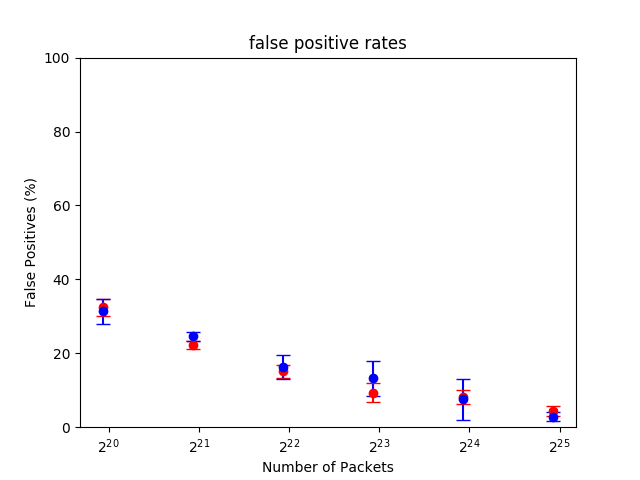
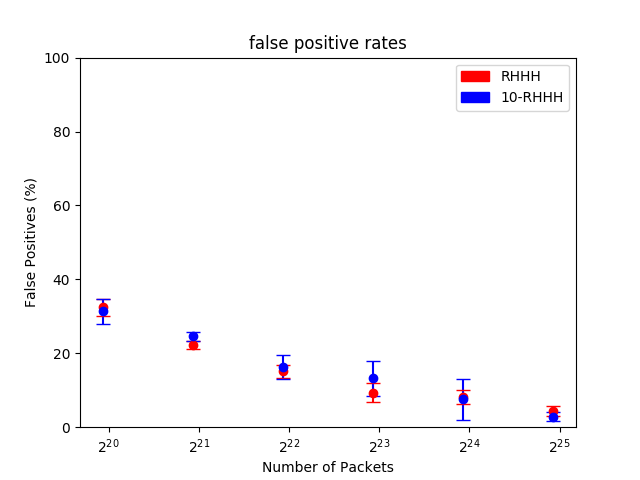
new graphs

Changed region(s): [[0.7188, 0.125, 0.9062, 0.2188]]

diff --git a/chicago2016/plot_graph.py b/chicago2016/plot_graph.py
@@ -2,6 +2,7 @@ import matplotlib as mpl
 mpl.use('agg')
 
 import numpy as np
+import matplotlib.patches as mpatches
 import matplotlib.pyplot as plt
 import pdb
 from parse_results import parse_file
@@ -63,6 +64,9 @@ def graph(rhh_confidence_intervals, _10_rhh_confidence_intervals, graph_name, x_
 	#ax.set_xticks([2**x for x in range(19, 26)])
 	#ax.set_xticklabels(["2^%s"%x for x in range(19, 26)])
 	ax.set_xscale("log", basex=2)
+        red_patch = mpatches.Patch(color='red', label='RHHH')
+        blue_patch = mpatches.Patch(color='blue', label='10-RHHH')
+        plt.legend(handles=[red_patch, blue_patch])
 	plt.title(graph_name)
 	fig.savefig("_".join(graph_name.split()) + '_fig.png')
 
